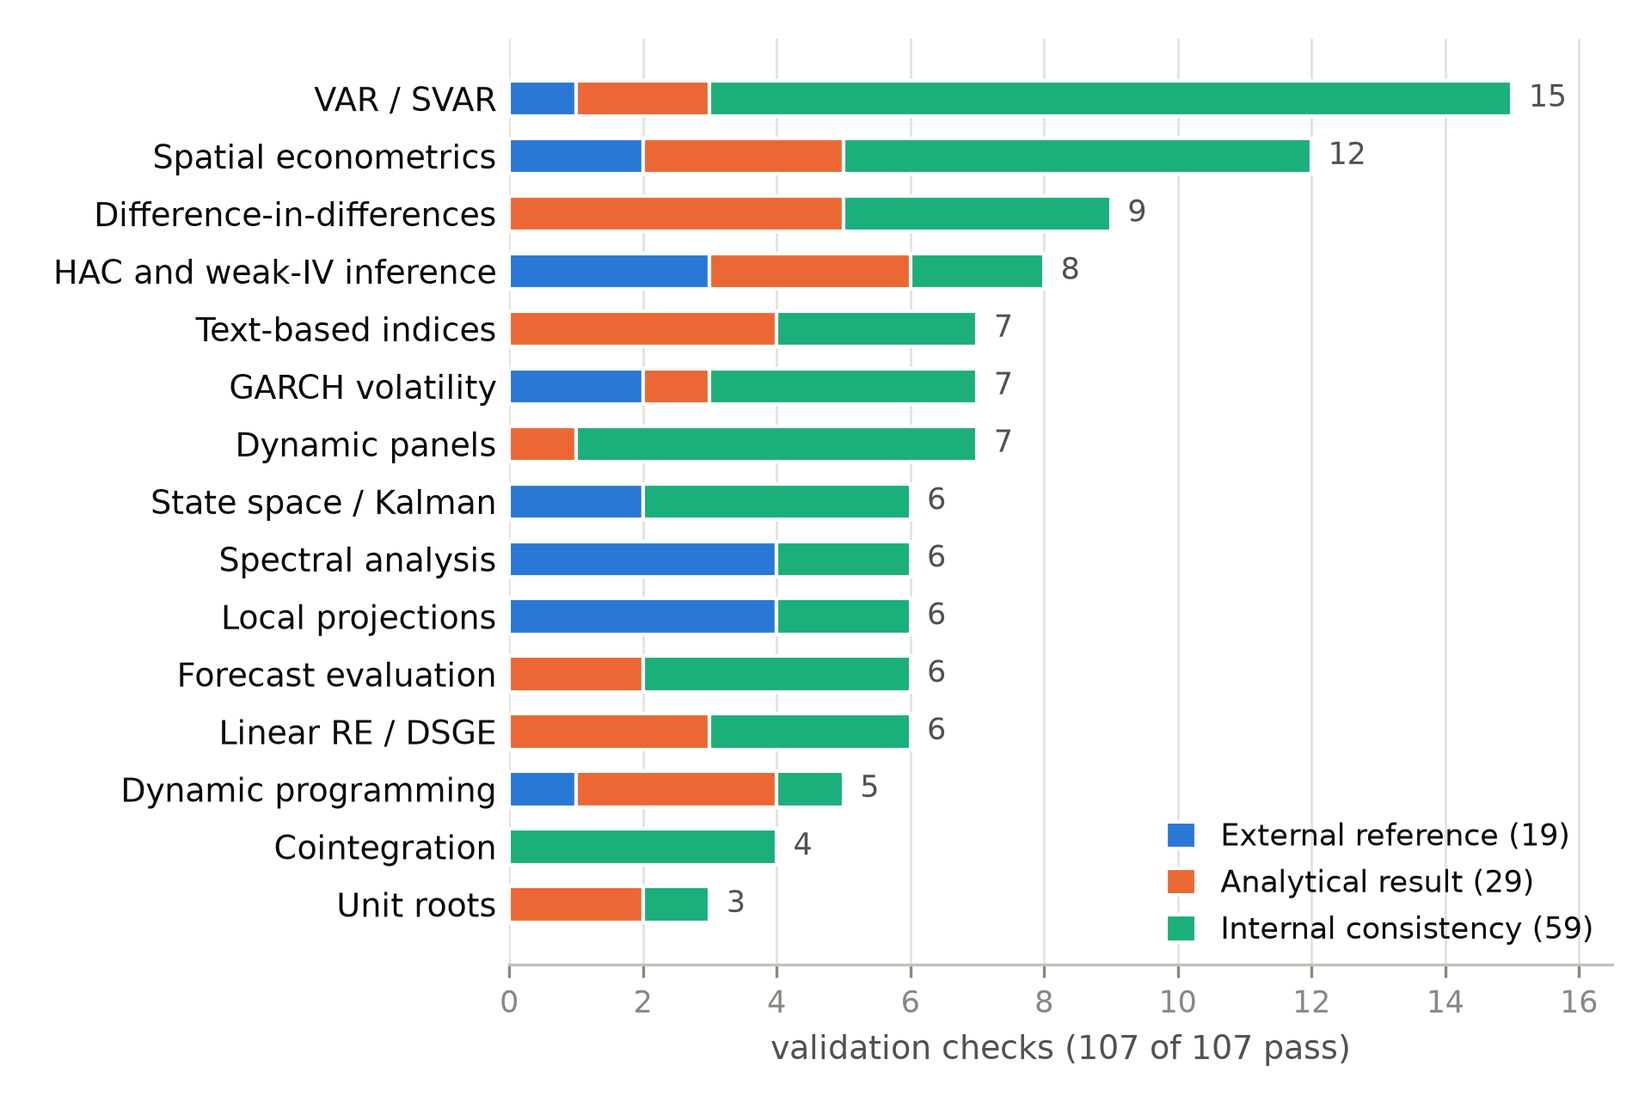
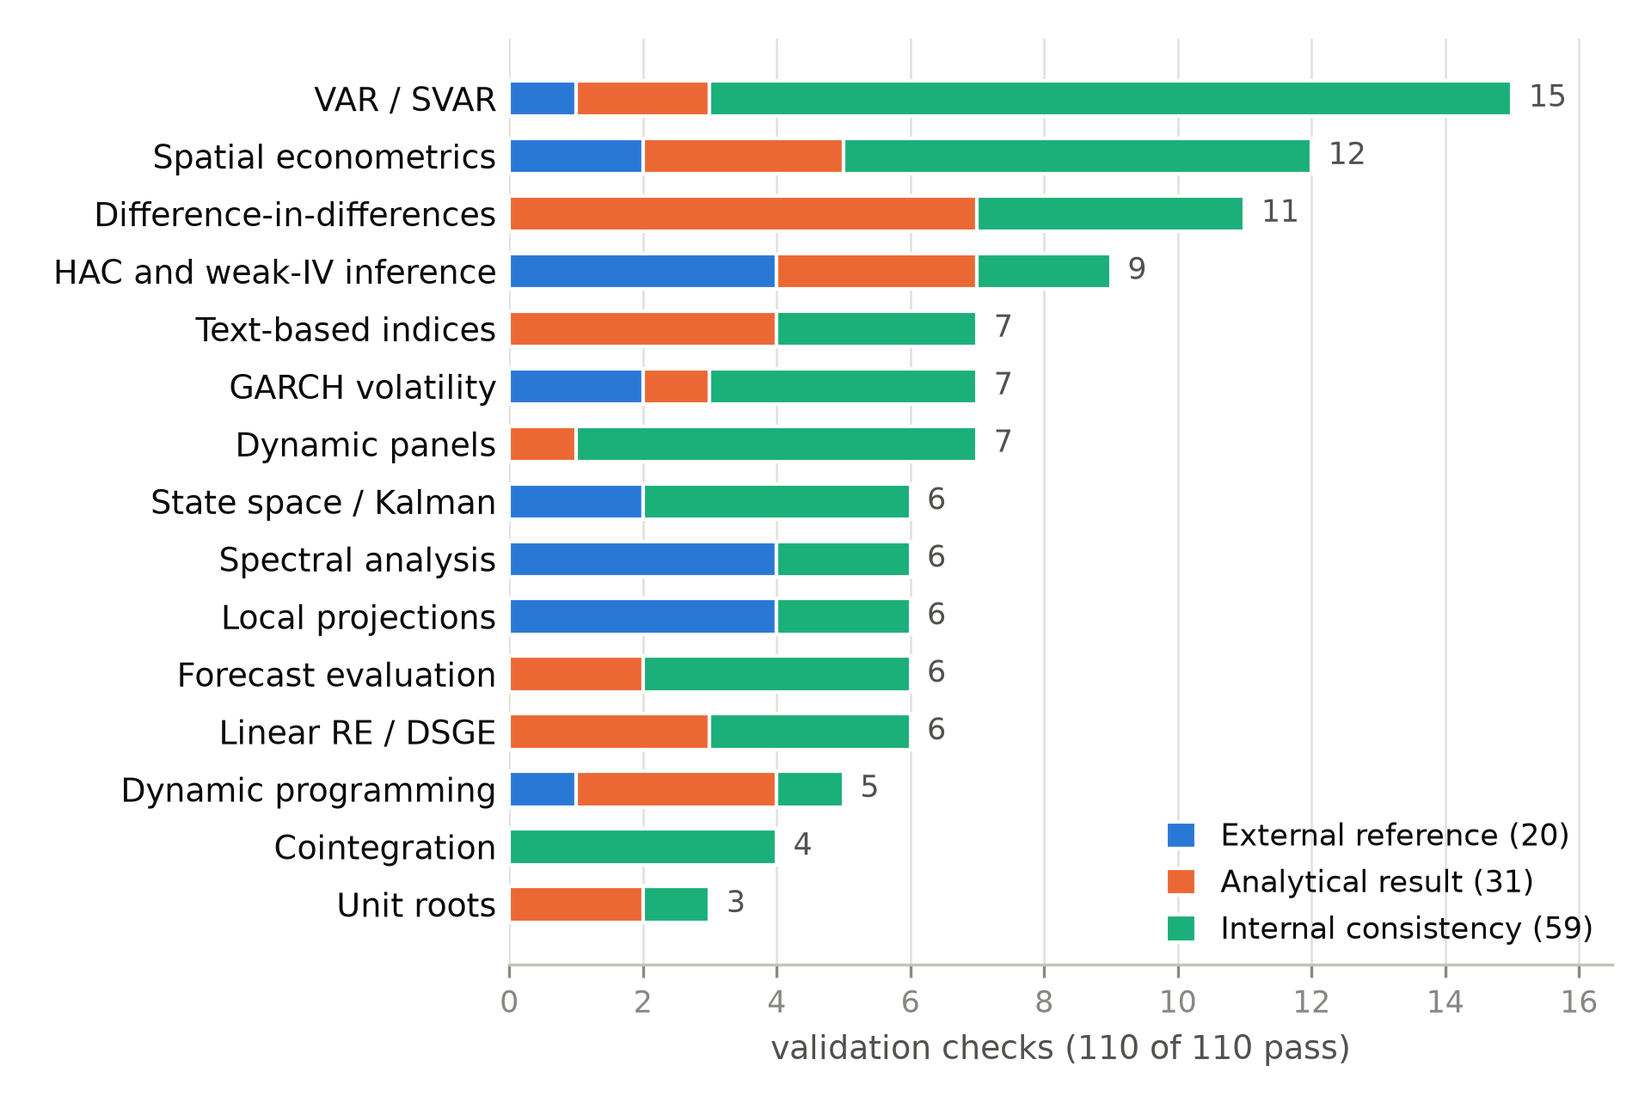
paper, RELEASING: refresh JOSS draft for 4.4.0; correct the eligibility rule
paper/paper.md: every count recomputed at 703c4bce with RELEASING §6.5
(806 modules / 281,290 lines; 18,848 collected tests; 597 swept modules;
110 validation checks in 15 subsystems, 20 external / 31 analytical /
59 internal, all passing; 70 bilingual pairs; 171 of 310 commits with a
Claude trailer). The median external relative difference (1.6e-15) and the
GARCH maximum (0.35%) were re-checked. The AI-disclosure AUTHOR comment now
lists what the author must confirm, including that the trailers name
Claude Opus 5.5, which the text does not, and the private period.
paper/scorecard.png regenerated with paper/make_scorecard_fig.py.

RELEASING §6.3 said to explain the private history to the editor and
submit early. JOSS's submitting.md says privately developed projects are
not eligible until they have more than six months of public history, so it
now states the 2027-01-21 earliest date and what to build until then.
§6.1 word count, §6.6 a verified Docker-free inara build, and §6.7 the
OECD Terms §3 "Data" conditions for the bundled ICIO fixture.

diff --git a/RELEASING.md b/RELEASING.md
@@ -191,14 +191,18 @@ before submitting — they have tightened at least once.*
 submittable**. The length and section requirements (§6.1) and the ORCID (§6.2) were
 closed in the 3.3.0–3.4.0 rewrite and are kept below as the record of what the paper now
 has to keep true. What is left is §6.3: the public repository's first commit is dated
-2026-07-20, so the roughly six months of public history JOSS looks for are not there
-until early 2027. Until then the paper is a draft that has to stay in step with the
-release it describes (§6.5).
+2026-07-20, and JOSS requires more than six months of public history, so the project
+**cannot be submitted before 2027-01-21**. Until then the paper is a draft that has to
+stay in step with the release it describes (§6.5).
 
 ### 6.1 Length and sections — done, keep it that way
 
-JOSS asks for **750–1750 words**. The rewritten draft is **~1,670** (body text, front
-matter and HTML comments excluded), and it carries all six required sections:
+JOSS asks for **750–1750 words** ("papers significantly longer than 1750 words may be
+asked to reduce the length"). At 4.4.0 the draft is **~1,630 words of prose**: front
+matter, HTML comments, headings, the figure caption and `[@...]` citations are excluded.
+Counted raw from the Markdown (headings, caption and citation keys included) it is
+~1,760. Rendered with author–year citations it is ~1,870. So it sits at the limit: do not
+add text without cutting some. It carries all six required sections:
 
 | section | state |
 |---|---|
@@ -209,7 +213,7 @@ matter and HTML comments excluded), and it carries all six required sections:
 | Research impact statement | ✓ — teaching use at ITAM, reproducible material, community readiness |
 | AI usage disclosure | ✓ — drafted; the AUTHOR comment in that section still has to be worked through before submitting |
 
-There is no longer a `# Features` section. The draft tracks **3.4.0**: whenever the module
+There is no longer a `# Features` section. The draft tracks **4.4.0**: whenever the module
 count, line count, test count, validation-check count or notebook count moves, refresh
 them in the same pass (§6.5).
 
@@ -219,42 +223,70 @@ them in the same pass (§6.5).
 (ITAM) record in the public ORCID registry as of 2026-09-13. Confirm it is yours and
 delete the AUTHOR comment that follows the front matter.
 
-### 6.3 The public history is short — disclose it, do not rewrite it
+### 6.3 Eligibility: not before 2027-01-21 — wait it out, do not rewrite history
 
-JOSS looks for roughly **six months of public development history with activity spanning
-it**. This repo's first commit is a single `Initial public release (v0.92.0)` squash of
-1,256 files dated 2026-07-20, so a reviewer sees a short public log for a library of ~750
-shipped modules. The earlier history is real but lives in the private `uncertainty_examples`
-monorepo, under `puremacro/`, from 2026-04-28.
+**This section previously said the opposite.** It advised submitting early and explaining
+the private history in the *comments to the editor* box. JOSS's rule does not allow that.
+`docs/submitting.md` (<https://joss.readthedocs.io/en/latest/submitting.html>, checked
+2026-10-02) says, verbatim:
 
-**This was investigated and rejected.** Re-splitting with
-`git filter-repo --subdirectory-filter puremacro` against the monorepo branch
-`feature/puremacro-v0.93.0` does work — it yields 965 commits spanning 2026-04-28 to
-2026-07-25 — and a scan of every text blob in that history for AWS, FRED and Banxico key
-formats came back clean. It was still the wrong trade:
+> The repository must have been public for more than six months prior to submission, with
+> active development spanning that period.
 
-- it buys ~11 weeks of earlier eligibility (2026-10-28 instead of 2027-01-19);
-- it rewrites **every** SHA, so `v1.0.0`–`v1.3.1` move and the commits PyPI actually built
-  from stop existing under those hashes;
-- it publishes 965 commit messages out of a private repository;
-- the trees do not line up — the private history carries `matlab/`, `.claude/`,
-  `egg-info` and a v0.93.0 tip against the public repo's v0.92.0 root, so the version
-  timeline would read "0.93.0" and then "Initial public release (v0.92.0)";
-- and the first cleaning pass still missed the nested `.DS_Store` files, which is the
-  real argument: after a force-push, every miss is permanent.
+> Projects developed privately are not eligible until there is a public record of open
+> development: at least six months of public history prior to submission, with evidence
+> of releases, public issues and pull requests.
 
-**Do this instead.** Say it plainly in the *comments to the editor* box on the submission
-form, and again in the review thread if asked:
+> A repository made public immediately before submission, or one showing development
+> concentrated into a few days or weeks, will not be accepted.
+
+> We run automated checks on commit distribution — a repo dump is not a history.
+
+The private history does not count, and an editor note cannot make it count. This repo's
+public history starts with the squash commit `Initial public release (v0.92.0)` (1,256
+files), dated **2026-07-20**. More than six months after that is **2027-01-21 at the
+earliest**. Before submitting, check on GitHub when the repository was actually made
+public. If that was after 2026-07-20, the date moves with it.
+
+Until then, the things that decide eligibility are all things you can build now:
+
+- **Keep development visible and spread out.** Make regular commits and releases across
+  October to January, not a burst just before submitting. The automated check looks at
+  how commits are distributed over time.
+- **Public issues and pull requests.** JOSS asks for "evidence of releases, public issues
+  and pull requests". Track real bugs and features as GitHub issues, and land some
+  changes through PRs instead of direct pushes to `main`. The 20 merged Jules PRs already
+  count.
+- **GitHub Releases, not just tags** (see §6.4). They are the release evidence a reviewer
+  sees.
+
+**Rewriting history to import the private commits was investigated and rejected.**
+Re-splitting with `git filter-repo --subdirectory-filter puremacro` against the monorepo
+branch `feature/puremacro-v0.93.0` does work. It yields 965 commits spanning 2026-04-28
+to 2026-07-25, and a scan of every text blob in that history for AWS, FRED and Banxico
+key formats came back clean. It is still the wrong trade:
+
+- JOSS counts how long the repository has been *public*, and imported old commit dates do
+  not change that. So it would probably not move eligibility at all.
+- It rewrites **every** SHA. `v1.0.0`–`v1.3.1` would move, and the commits PyPI actually
+  built from would no longer exist under those hashes.
+- It publishes 965 commit messages out of a private repository.
+- The trees do not line up. The private history carries `matlab/`, `.claude/`, `egg-info`
+  and a v0.93.0 tip, while the public repo's root is v0.92.0. The version timeline would
+  read "0.93.0" and then "Initial public release (v0.92.0)".
+- The first cleaning pass still missed the nested `.DS_Store` files. That is the real
+  argument: after a force-push, every miss is permanent.
+
+**At submission (2027-01-21 or later)**, still say plainly in the *comments to the editor*
+box where the earlier history went. It no longer argues for eligibility; it is context, and
+the AI-usage disclosure has to cover the private period anyway:
 
 > `puremacro` was developed from 2026-04-28 inside a private monorepo
 > (`uncertainty_examples`), as the `puremacro/` subdirectory, and was extracted into this
 > standalone public repository on 2026-07-20. The extraction squashed the prior history
-> into the initial commit, so the commit log here begins in July; development did not.
-> Release history is continuous across the move, from v0.92.0 through the current
-> release, and is visible in `CHANGELOG.md` and in the tag list.
-
-Costs nothing, is true, and editors accept it. Revisit only if an editor specifically
-asks for the history to be present in the repository itself.
+> into the initial commit. The public history since then is more than six months long,
+> and release history is continuous from v0.92.0 through the current release
+> (`CHANGELOG.md`, tags and GitHub Releases).
 
 ### 6.4 Zenodo comes *after* acceptance, not before
 
@@ -269,7 +301,7 @@ This repo has tags through `v3.3.0` but only one Release (`v1.0.0`), so
 ### 6.5 Refresh the paper's numbers with every release it claims to describe
 
 `paper/paper.md` quotes counts that move under it. Recompute all of them in one pass and
-edit the text; each was last refreshed for 3.4.0 on 2026-09-16.
+edit the text; each was last refreshed for 4.4.0 (commit 703c4bce) on 2026-10-02.
 
 ```bash
 # modules and lines (the "Scale" paragraph)
@@ -302,9 +334,64 @@ docker run --rm --volume $PWD/paper:/data --user $(id -u):$(id -g) \
   --env JOURNAL=joss openjournals/inara
 ```
 
+Without Docker (verified 2026-10-02 at 4.4.0 with pandoc 3.11 and TeX Live 2025
+lualatex; the draft builds with no pandoc or citeproc warnings). It needs:
+
+- the `openjournals/inara` sources (`main` tarball);
+- the **Hack** font: the template's `\setmonofont{Hack}` does not resolve to
+  "Hack Nerd Font";
+- the Libre Franklin fonts that ship in inara's `fonts/`.
+
+```bash
+OJ=/path/to/oj; SRC=/path/to/inara-main          # SRC = unpacked inara tarball
+mkdir -p $OJ && cp -R $SRC/resources/* $OJ/ && cp -R $SRC/data $OJ/data
+export OSFONTDIR=/path/to/Hack/ttf:$SRC/fonts/libre-franklin
+cp -R paper /tmp/paperbuild && cd /tmp/paperbuild   # build in a scratch copy
+pandoc --data-dir=$OJ/data --defaults=shared --defaults=pdf \
+  --defaults=$OJ/joss/defaults.yaml --resource-path=.:$OJ \
+  --variable=joss --variable=draft:true --metadata=draft:true paper.md
+```
+
 Then open <https://joss.theoj.org/papers/new> with the repository URL. Review is
 conversational and public on GitHub; you are expected to answer reviewers within 2 weeks
 and land changes within 4–6.
 
 What JOSS checks that this repo already satisfies: an OSI licence (MIT, and GitHub's
 licensee detects it), documentation, automated tests, and a functioning CI.
+
+### 6.7 The bundled OECD ICIO data: redistribution is permitted, with conditions
+
+Reviewers check the licences of bundled data. The wheel ships
+`puremacro/trade/_datafiles/icio_77c_11s.npz`, an aggregation of an OECD ICIO export
+(see that directory's `SOURCES.md`). The OECD Terms and Conditions were read on
+2026-10-02, from an archived copy of
+<https://www.oecd.org/en/about/terms-conditions.html> dated 2026-09-30 (oecd.org returns
+403 to automated clients). The terms are "Last updated on 1 July 2024". OECD **data**
+is governed by their §3 "Data", which is not CC BY 4.0: CC BY 4.0 covers only OECD
+*written content*. Its "Permitted Use" clause reads:
+
+> Except where additional restrictions apply as stated above, you can extract from,
+> download, copy, adapt, print, distribute, share and embed Data for any purpose, even
+> for commercial use. You must give appropriate credit to the OECD by using the citation
+> associated with the relevant Data […]. When sharing or licensing work created using the
+> Data, you agree to include the same acknowledgment requirement in any sub-licenses
+> that you grant, along with the requirement that any further sub-licensees do the same.
+
+Redistributing the fixture in the wheel is therefore allowed. Two of the conditions are
+not yet met in full. These are licensing-text decisions for you; nothing has been changed:
+
+- **Citation.** The ICIO ReadMe (2025 edition) asks for "OECD. (2025) OECD Inter-Country
+  Input-Output Tables, https://oe.cd/icio". `SOURCES.md` credits "the OECD ICIO tables"
+  without that citation (or the one for the edition actually used), and its source link is
+  the retired `oecd.org/sti/ind/...htm` URL.
+- **Pass-through.** `SOURCES.md` does not say that redistributors must carry the same
+  acknowledgment requirement forward. Its "Terms" row also paraphrases the terms instead
+  of naming §3 of the 1 July 2024 Terms and Conditions.
+- **Third-party data.** §3 makes the user responsible for checking third-party
+  ownership. The ICIO ReadMe flags Israel's data as supplied "by and under the
+  responsibility of the relevant Israeli authorities or third party". Nothing restricts
+  redistribution there, but note it.
+- **Corrupted derivative.** The fixture comes from a decimal-point-corrupted export (see
+  `SOURCES.md` and `docs/ADVISORY.md`, 2026-09-22). The terms do not forbid that.
+  `SOURCES.md` already labels it a regression fixture and not OECD estimates; keep that
+  label wherever the data are credited to the OECD.

diff --git a/paper/paper.md b/paper/paper.md
@@ -27,12 +27,13 @@ bibliography: paper.bib
      public ORCID registry (checked 2026-09-13); confirm it is yours. Set `date` to
      the day you submit. -->
 
-<!-- This draft is NOT pinned to an old release: it tracks the current one, 3.4.0.
+<!-- This draft is NOT pinned to an old release: it tracks the current one, 4.4.0.
      Every count in the text (modules, lines, tests, swept library modules,
-     validation checks, notebook pairs, commits) was recomputed from the 3.4.0 tree
-     on 2026-09-16, and `scorecard.png` was re-verified against `validation.scorecard()`
-     on the same tree — 107 checks, 15 subsystems, 19 external / 29 analytical /
-     59 internal, all passing, identical to 3.3.0. Re-run the commands in
+     validation checks, notebook pairs, commits) was recomputed from the 4.4.0 tree
+     (commit 703c4bce) on 2026-10-02, and `scorecard.png` was regenerated from
+     `validation.scorecard()` on the same tree: 110 checks, 15 subsystems,
+     20 external (13 package + 5 SciPy + 2 published) / 31 analytical / 59 internal,
+     all passing (3.4.0 had 107: 19 / 29 / 59). Re-run the commands in
      RELEASING.md §6.5 before submitting. -->
 
 # Summary
@@ -125,7 +126,7 @@ tests, not a feature that can be added to another project's dependency graph.
 Matplotlib (plus requests, in the data layer) at module scope; anything else, from
 Parquet support to optional accelerators, is optional and imported only when
 available. Two tests enforce the rule against the packages most likely to leak in.
-The first imports each of the 547 library modules (examples, teaching helpers,
+The first imports each of the 597 library modules (examples, teaching helpers,
 text-scraping sources and optional Numba kernels are excluded) and fails if
 statsmodels, linearmodels, arch or the scraping packages bs4, pdfplumber and pypdf
 have entered `sys.modules`. The second repeats the sweep in a subprocess in which
@@ -165,8 +166,8 @@ release gate installs the package there exactly as the playground does and runs 
      commit and, if the full validation gallery passes there, say so and name the
      Pyodide version it reported. -->
 
-**Scale.** Version 3.4.0 comprises about 750 modules and 231,000 lines of Python,
-exercised by about 14,300 tests that CI runs on Linux, macOS and Windows under
+**Scale.** Version 4.4.0 comprises about 810 modules and 281,000 lines of Python,
+exercised by about 18,800 tests that CI runs on Linux, macOS and Windows under
 Python 3.11–3.13. Before a release is tagged, a script checks the suite against a
 recorded baseline, the import invariant, a snapshot of the public API that must be
 regenerated deliberately when the interface changes, that every shipped file still
@@ -175,15 +176,15 @@ the package metadata, changelog and citation file.
 
 ## Verification
 
-The validation gallery, `puremacro.validation.scorecard()`, runs 107 checks across
+The validation gallery, `puremacro.validation.scorecard()`, runs 110 checks across
 15 subsystems in under a minute, with none of the oracle packages installed; all
 pass (\autoref{fig:scorecard}). The checks differ in strength, and each records
-its reference. Nineteen compare against an external reference: stored outputs of
+its reference. Twenty compare against an external reference: stored outputs of
 statsmodels, arch, linearmodels and esda, SciPy results computed at run time, or a
 published table. Agreement with independent implementations is typically at
 machine precision (median relative difference of order $10^{-15}$); the exception
 is GARCH, whose estimates differ from arch's by up to 0.35% because the two
-packages use different optimisers. Twenty-nine checks compare against analytical
+packages use different optimisers. Thirty-one checks compare against analytical
 results, and 59 test internal consistency, such as agreement between alternative
 algorithms and recovery of parameters from simulated data.
 
@@ -196,7 +197,7 @@ holds the interest rate below the rate of time preference, and the rate falls as
 income risk rises. Most model solvers (sequence-space, continuous-time, spatial,
 trade and climate) are covered by unit tests but not yet by gallery checks.
 
-![The validation gallery of `puremacro` 3.4.0: 107 checks in 15 subsystems, by kind of reference; all pass. *External reference*: stored outputs of statsmodels, arch, linearmodels or esda, SciPy computed at run time, or a published table. *Analytical result*: a closed form, or an effect planted in simulated data. *Internal consistency*: agreement between alternative algorithms, identities that correct output must satisfy, or recovery of parameters from simulated data. Regenerate with `python paper/make_scorecard_fig.py`.\label{fig:scorecard}](scorecard.png){ width=80% }
+![The validation gallery of `puremacro` 4.4.0: 110 checks in 15 subsystems, by kind of reference; all pass. *External reference*: stored outputs of statsmodels, arch, linearmodels or esda, SciPy computed at run time, or a published table. *Analytical result*: a closed form, or an effect planted in simulated data. *Internal consistency*: agreement between alternative algorithms, identities that correct output must satisfy, or recovery of parameters from simulated data. Regenerate with `python paper/make_scorecard_fig.py`.\label{fig:scorecard}](scorecard.png){ width=80% }
 
 # Research impact statement
 
@@ -213,7 +214,7 @@ on evidence a reviewer can check.
 material on it. The course's 22 Spanish lesson notebooks are in the repository
 (`notebooks/course`), and 20 of them call `puremacro` directly.
 
-*Reproducible material.* The repository contains 60 bilingual (English/Spanish)
+*Reproducible material.* The repository contains 70 bilingual (English/Spanish)
 pairs of worked-example notebooks; all of them, with the lesson notebooks, are also
 published as a JupyterLite [@jupyterlite] site that runs them in the browser.
 
@@ -231,7 +232,7 @@ guidelines, and CI on three operating systems.
 Generative AI was used extensively in writing `puremacro`, its documentation and
 this paper. Anthropic's Claude models, used through the Claude Code agent (Claude
 Opus 5, Claude Fable 5 and Claude Fable 5.1), generated or co-wrote much of the
-code, tests, documentation and notebooks: 111 of the 214 commits in the public
+code, tests, documentation and notebooks: 171 of the 310 commits in the public
 repository carry a Claude co-author trailer. Google's Jules coding agent
 contributed 20 pull requests (refactoring, performance and test improvements),
 each reviewed and merged by the author. Claude also drafted and revised this
@@ -246,13 +247,32 @@ alone: it is checked by the test suite, the validation and replication galleries
 and CI.
 
 <!-- AUTHOR, required before submitting (JOSS treats an incomplete or inaccurate
-     disclosure as an ethical breach):
-     (1) confirm that the review assertion in the paragraph above is accurate;
-     (2) add the AI tools used during private development (2026-04-28 to
-         2026-07-20, squashed into the first public commit), and the model and
-         version behind Jules;
-     (3) refresh the counts: `git rev-list --count HEAD` and
-         `git log -i --grep='co-authored-by: claude' --oneline | wc -l`. -->
+     disclosure as an ethical breach). Only you can confirm items 1-4; do not
+     submit with this comment still here.
+     (1) TOOLS AND MODELS, PUBLIC PERIOD (2026-07-20 onward). The commit trailers
+         on origin/main at 703c4bce (4.4.0) name: Claude Opus 5 (105 commits),
+         Claude Opus 5 (1M context) (26), Claude Fable 5.1 (18), Claude Fable 5
+         (14) and Claude Opus 5.5 (9). The sentence above names Opus 5, Fable 5
+         and Fable 5.1 but NOT Opus 5.5: add it, or confirm it should be left out
+         (it should not). Confirm that no other assistant (Copilot, ChatGPT,
+         Cursor, Gemini, ...) was used without leaving a trailer.
+     (2) TOOLS AND MODELS, PRIVATE PERIOD (2026-04-28 to 2026-07-20, inside the
+         private `uncertainty_examples` monorepo and squashed into the first
+         public commit, so no trailer records it): list every AI tool and model
+         used then, and say roughly how much of the code it produced. The
+         sentence above currently covers only the public repository.
+     (3) JULES: 20 commits by google-labs-jules[bot], merged through 20 pull
+         requests, are on origin/main. Name the model and version behind Jules
+         (the commits do not record it), and confirm "each reviewed and merged
+         by the author".
+     (4) REVIEW ASSERTION: confirm that "reviewed, edited and validated all
+         AI-assisted output before it was merged" is literally true, including
+         for multi-agent workflow commits; if not, soften it to what is true.
+     (5) COUNTS ("171 of the 310 commits"): recomputed on 2026-10-02 at
+         703c4bce with RELEASING.md §6.5, i.e.
+         `git rev-list --count origin/main` and
+         `git log origin/main -i --grep='co-authored-by: claude' --oneline | wc -l`.
+         Re-run on the submitted commit; commits after 4.4.0 will move both. -->
 
 # Acknowledgements
 
